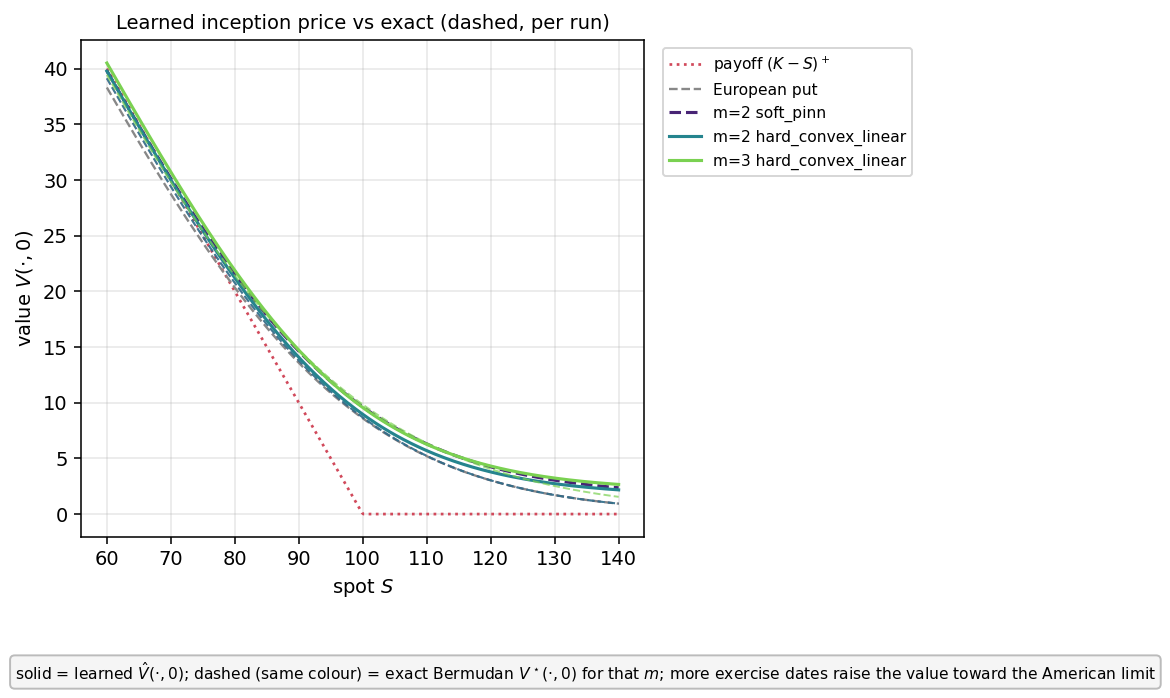
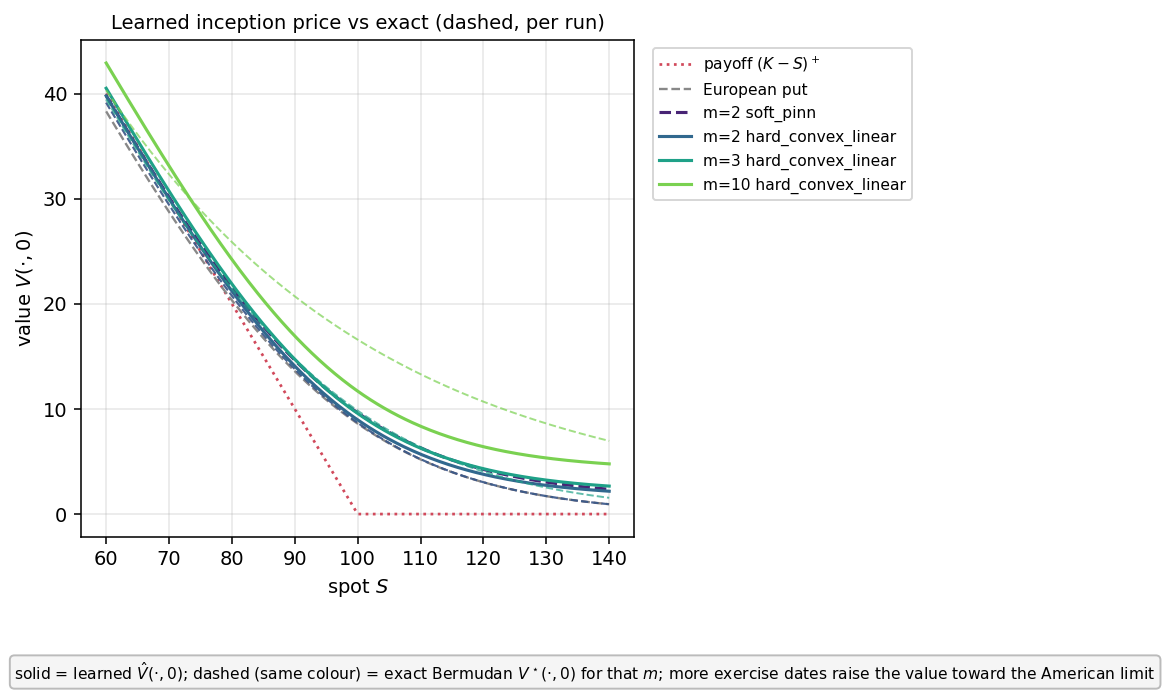
report: fold in m=10 result; error grows with the number of steps
m=10 completed on GPU (inception 14.4%, per-date error a mid-life hump peaking
~19% at t=0.5). Regenerate both comparison figures with the m=10 curve. Correct
finding #4 from "adding steps did not blow the error up" to "the error grows with
the number of steps": shorter intervals smooth the payoff/exercise-boundary
curvature less (sigma*sqrt(dtau) falls 0.18->0.08 from m=2 to m=10) and more steps
accumulate. Update Figure 1/2 readings (the learned m=10 under-prices its exact
reference by the ~14% margin) and the caveats (per-step accuracy degrades at
shorter intervals; fixed per-step budget across m).

diff --git a/documents/2026-06-13_bermudan_backward_induction_validation.md b/documents/2026-06-13_bermudan_backward_induction_validation.md
@@ -107,7 +107,7 @@ means a 3 % error).
 | m=2 `hard_convex` | $\{0.5,\,1\}$ | exact | two learned steps |
 | m=2 `soft_pinn` | $\{0.5,\,1\}$ | penalty only | cost of inexact terminal |
 | m=3 `hard_convex` | $\{1/3,\,2/3,\,1\}$ | exact | three learned steps |
-| m=10 `hard_convex` | $\{0.1,\dots,1\}$ | exact | ten steps (running) |
+| m=10 `hard_convex` | $\{0.1,\dots,1\}$ | exact | ten steps (nine intermediate dates) |
 
 ## 5. The figures
 
@@ -131,6 +131,11 @@ Reading it:
 - **`hard_convex`, m=3 (solid)** is *not monotone*: $5.75\%$ at the first date
   solved ($t=2/3$), then $2.65\%$ at $t=1/3$, then $3.09\%$ at inception. The
   largest error is at the top step, not at inception.
+- **`hard_convex`, m=10 (solid, top curve)** sits an order of magnitude higher:
+  the per-date error rises from $12.4\%$ near maturity to a peak of $19.2\%$ at
+  mid-life ($t=0.5$) and falls back to $14.4\%$ at inception — a **hump** that is
+  well above the m=2 and m=3 curves at every date. Ten steps of one-tenth the
+  length each are markedly less accurate than two or three long steps.
 
 ### Figure 2 — the learned price against the exact price
 
@@ -143,18 +148,26 @@ same run. The dotted red curve is the immediate-exercise payoff $(K-S)^+$; the
 grey dashed curve is the European put (exercisable only at maturity).
 
 Reading it:
-- For every run the solid (learned) and dashed (exact) curves lie on top of each
-  other — the learned induction reproduces the true price across the window.
+- For $m=2$ and $m=3$ the solid (learned) and dashed (exact) curves lie on top of
+  each other — the learned induction reproduces the true price across the window.
+  For $m=10$ the solid (learned) curve sits **visibly below** its dashed exact
+  reference for $S\gtrsim90$: that gap is the $14\%$ error of Figure 1, an
+  under-pricing that the few-step runs do not show.
 - Every learned curve sits **above** the European put: the right to exercise early
   is worth a positive amount (the early-exercise premium).
-- The m=3 curve sits slightly **above** the m=2 curve: more exercise opportunities
-  can only increase the value, approaching the American (continuous-exercise) limit.
+- The exact curves order by the number of exercise dates (exact $m=10$ highest,
+  then $m=3$, then $m=2$): more exercise opportunities can only increase the value,
+  approaching the American (continuous-exercise) limit. The learned $m=10$ still
+  lies above the $m=2/3$ curves — it captures the extra early-exercise value — but
+  under-shoots its own exact reference by the Figure 1 margin.
 
 ## 6. What we conclude (and how strongly)
 
 1. **The procedure is correct end to end.** With every step learned, the chained
    induction reproduces the exact Bermudan price to about $3\%$ for $m=2$ and
-   $m=3$ (Figure 2). This is a *measured* result on one seed.
+   $m=3$ (Figure 2), and to about $14\%$ for $m=10$ — qualitatively right in every
+   case (positive early-exercise premium, value increasing in $m$), quantitatively
+   accurate for few steps. This is a *measured* result on one seed.
 2. **Exact terminal matching beats a penalty.** At inception the `hard_convex`
    error is $3.18\%$ versus $5.0\%$ for `soft_pinn` (Figure 1). The penalty form
    leaves a terminal mismatch at each step that compounds; the exact form does
@@ -165,18 +178,28 @@ Reading it:
    between the error a step adds and the smoothing of the error it inherits, which
    is why the $m=3$ curve is highest at the top step and lower below it
    (Figure 1). *Observed*; a clean separation of the two effects is not yet done.
-4. **Adding steps did not blow the error up.** $m=2$ and $m=3$ reach almost the
-   same inception error ($3.18\%$ vs $3.09\%$). The $m=10$ run tests whether this
-   stability holds with nine intermediate dates.
+4. **The error grows with the number of steps.** $m=2$ and $m=3$ happen to reach
+   almost the same inception error ($3.18\%$ vs $3.09\%$), but this is *not* a
+   general stability: at $m=10$ the inception error is $14.4\%$ and the per-date
+   error peaks near $19\%$ mid-life (Figure 1) — roughly a fivefold increase.
+   Two mechanisms push the same way as $m$ grows: each interval is shorter, so its
+   Gaussian propagation smooths the sharp payoff/exercise-boundary curvature less
+   (the smoothing length $\sigma\sqrt{\Delta\tau}$ falls from $0.18$ at $m=2$ to
+   $0.08$ at $m=10$), leaving a larger per-step residual; and there are more steps
+   to accumulate. *Measured*, one seed; the size of the growth (linear? super-
+   linear in $m$?) is not yet characterised — it needs intermediate $m$ and seeds.
 
 ## 7. Limits of these results
 
 - **One seed, one setting.** Single network size, single optimiser budget, one
-  $(K,\sigma,T)$, equally spaced dates. The $\approx3\%$ floor is set mainly by
-  the top step, which must learn the sharp (smoothed) payoff; the spectral
-  analysis of the companion call study shows such a sharp terminal datum leaves a
-  high-frequency residual the network cannot remove. A variance estimate needs
-  several seeds.
+  $(K,\sigma,T)$, equally spaced dates. The per-step accuracy is limited by the
+  sharp (smoothed) payoff and exercise-boundary curvature, which the spectral
+  analysis of the companion call study shows leaves a high-frequency residual the
+  network cannot remove; that residual is *larger for shorter intervals*, which is
+  why the accuracy degrades from $m=2/3$ to $m=10$. A fixed per-step iteration
+  budget was used for every $m$; whether more iterations (or a larger network) at
+  small interval length recovers the accuracy is untested. A variance estimate
+  needs several seeds.
 - **`soft_pinn` is a baseline, not a competitor**, since it does not enforce the
   terminal datum; its larger error is expected and is the point of the comparison.
 
